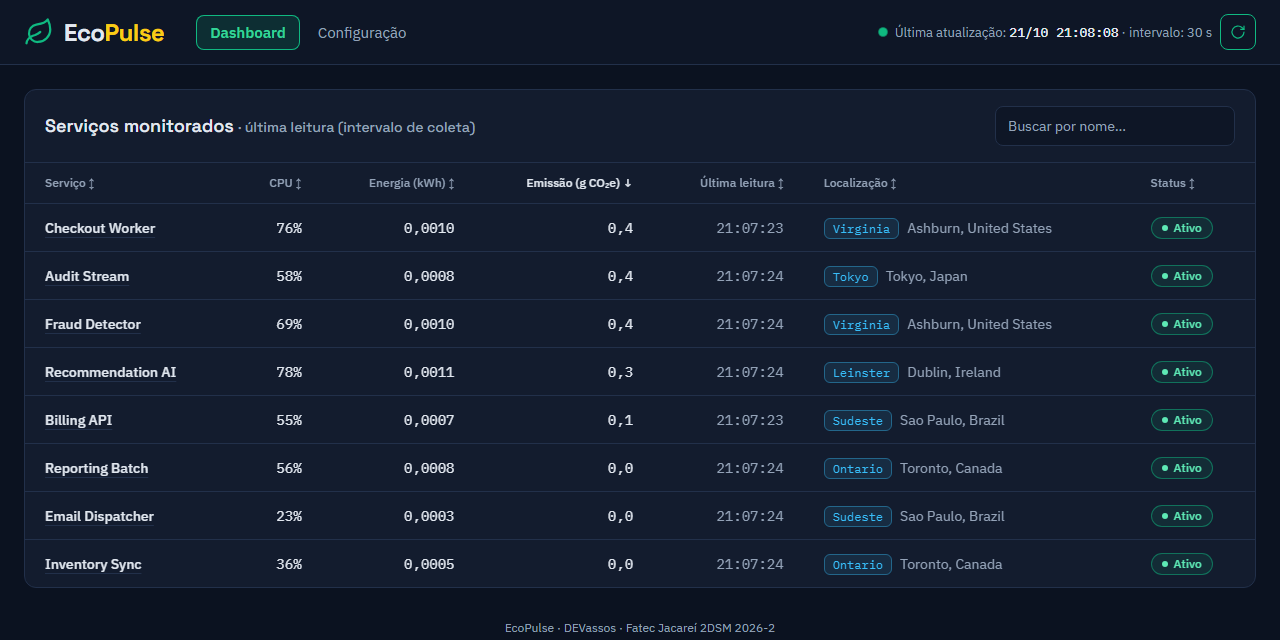
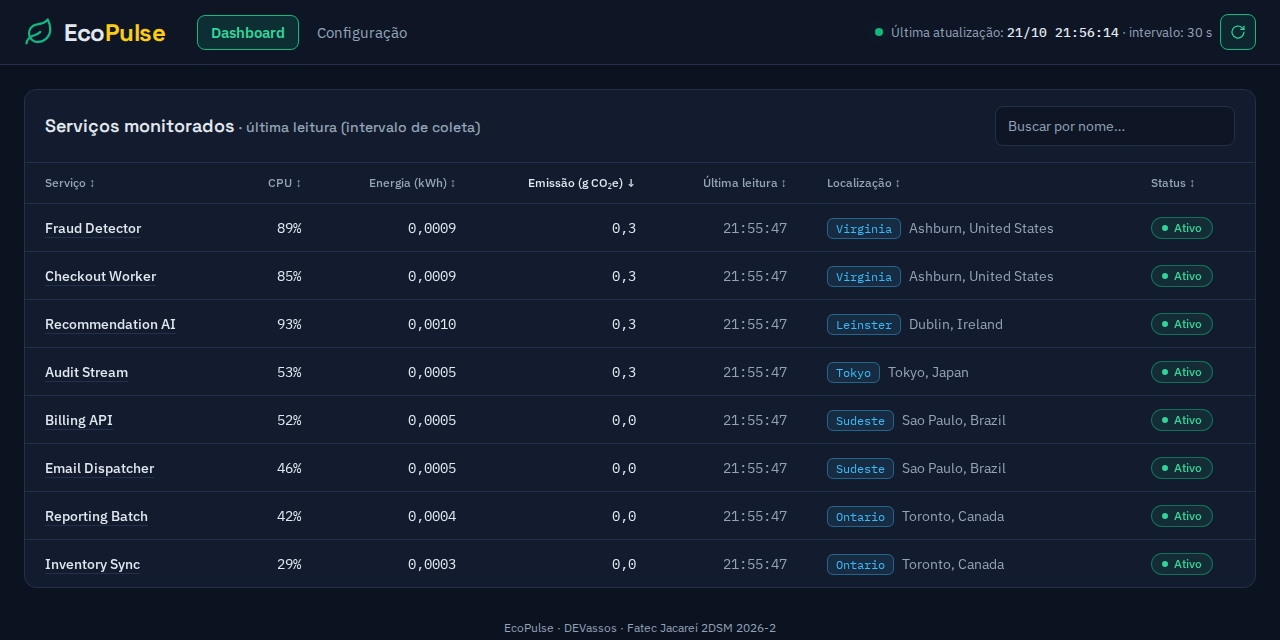
docs(docs): refaz os prints do README com a paleta azul (#180)
Os quatro prints das funcionalidades passam a ser da Sprint 2, com o
backend real no compose; os da Sprint 1 ficam em docs/img como
registro. Refaz também os dois prints do PR depois dos ajustes.

diff --git a/README.md b/README.md
@@ -40,21 +40,21 @@ O desenvolvimento acontece na branch `develop`; cada funcionalidade entra nesta 
 
 - **RF09, RF12 — Tabela operacional de serviços (#69):** dashboard com cada serviço monitorado, CPU, energia, emissão, última leitura, localização (região, cidade e país) e status (ativo, indisponível, sem métricas ou removido, quando o serviço sai da lista do agregador), com busca por nome e ordenação por coluna. A tela consome `GET /api/services` (#115) pela base definida em `VITE_API_URL`; sem ela (variável vazia), o frontend sobe em modo demonstração com dados ilustrativos (`npm run mock`) — como executar em [frontend/README.md](frontend/README.md).
 
-  ![Tabela de serviços monitorados com o backend real](docs/img/sprint-1-dashboard-backend-real.png)
+  ![Tabela de serviços monitorados com o backend real](docs/img/sprint-2-dashboard-backend-real.png)
 
-  _Tabela ligada ao backend real em 14/10/2026, antes do cálculo de CO₂e (#139): por isso energia e emissão aparecem como "—". Audit Stream estava como Removido porque tinha saído da lista do agregador._
+  _Tabela ligada ao backend real (`docker compose`) em 21/10/2026, com energia e emissão da última coleta (#139) e a paleta azul (#180)._
 
 - **RNF02 — Indicador de última atualização (#89):** selo no cabeçalho com o horário da última busca bem-sucedida e um ponto verde pulsando enquanto os dados estão em dia; se uma busca falha, ele fica laranja e passa a dizer "Desatualizado desde …", sem apagar os dados da tela.
 
-  ![Selo de última atualização no cabeçalho](docs/img/sprint-1-ultima-atualizacao.png)
+  ![Selo de última atualização no cabeçalho](docs/img/sprint-2-ultima-atualizacao.png)
 
-  _Selo em 09/10/2026, capturado com o backend falso de desenvolvimento (`npm run mock`): os serviços e os valores de energia e emissão desta imagem são ilustrativos._
+  _Selo em 21/10/2026, com o backend real (`docker compose`)._
 
 - **RF11, RNF02 — Atualização automática sem recarregar (#100, #114):** o dashboard busca os dados de novo a cada intervalo (`VITE_REFRESH_INTERVAL_MS`, padrão 30 s), pausa com a aba oculta e tem o botão **Atualizar agora**; se uma atualização falha, os dados anteriores continuam na tela e aparece o erro com **Tentar novamente**.
 
-  ![Dashboard depois de uma atualização com falha](docs/img/sprint-1-atualizacao-automatica.png)
+  ![Dashboard depois de uma atualização com falha](docs/img/sprint-2-atualizacao-automatica.png)
 
-  _Falha simulada no backend falso de desenvolvimento: os dados anteriores continuam na tela e o selo fica laranja ("Desatualizado desde …")._
+  _Backend parado com `docker compose stop backend` em 21/10/2026: os dados anteriores continuam na tela e o selo fica laranja ("Desatualizado desde …")._
 
 - **RF01, RF02, RF03, RF04 — Descoberta e coleta periódica (#95, #98, #99):** o backend descobre os serviços no agregador de métricas, consulta `/metrics/{id}` e grava o histórico no PostgreSQL; o _worker_ roda em segundo plano e reconcilia serviços que aparecem, ficam indisponíveis ou voltam a exportar métricas.
 
@@ -62,7 +62,9 @@ O desenvolvimento acontece na branch `develop`; cada funcionalidade entra nesta 
 
 - **RF09, RF10 — Detalhes e histórico do serviço (#135):** clicar num serviço da tabela abre uma janela com status, localização, última leitura, CPU e as 50 coletas mais recentes do serviço (`GET /api/collections`), com o período exibido na legenda. O histórico se atualiza no mesmo intervalo do dashboard; se uma busca falha, as coletas continuam na tela com "Desatualizado desde …". Como verificar em [frontend/README.md](frontend/README.md).
 
-  ![Janela de detalhes de um serviço com o histórico de coletas](docs/img/sprint-1-detalhe-servico.png)
+  ![Janela de detalhes de um serviço com o histórico de coletas](docs/img/sprint-2-detalhe-servico.png)
+
+  _Janela da Billing API em 21/10/2026, com o backend real (`docker compose`)._
 
 - **RNF05, DW07 — Execução com Docker (#91, #113, #81):** backend, frontend (nginx) e PostgreSQL sobem juntos por `docker compose up --build`, com volume persistente para o banco e todas as variáveis documentadas em [.env.example](.env.example) (#82). Passo a passo no [README](#8-como-executar).
 
